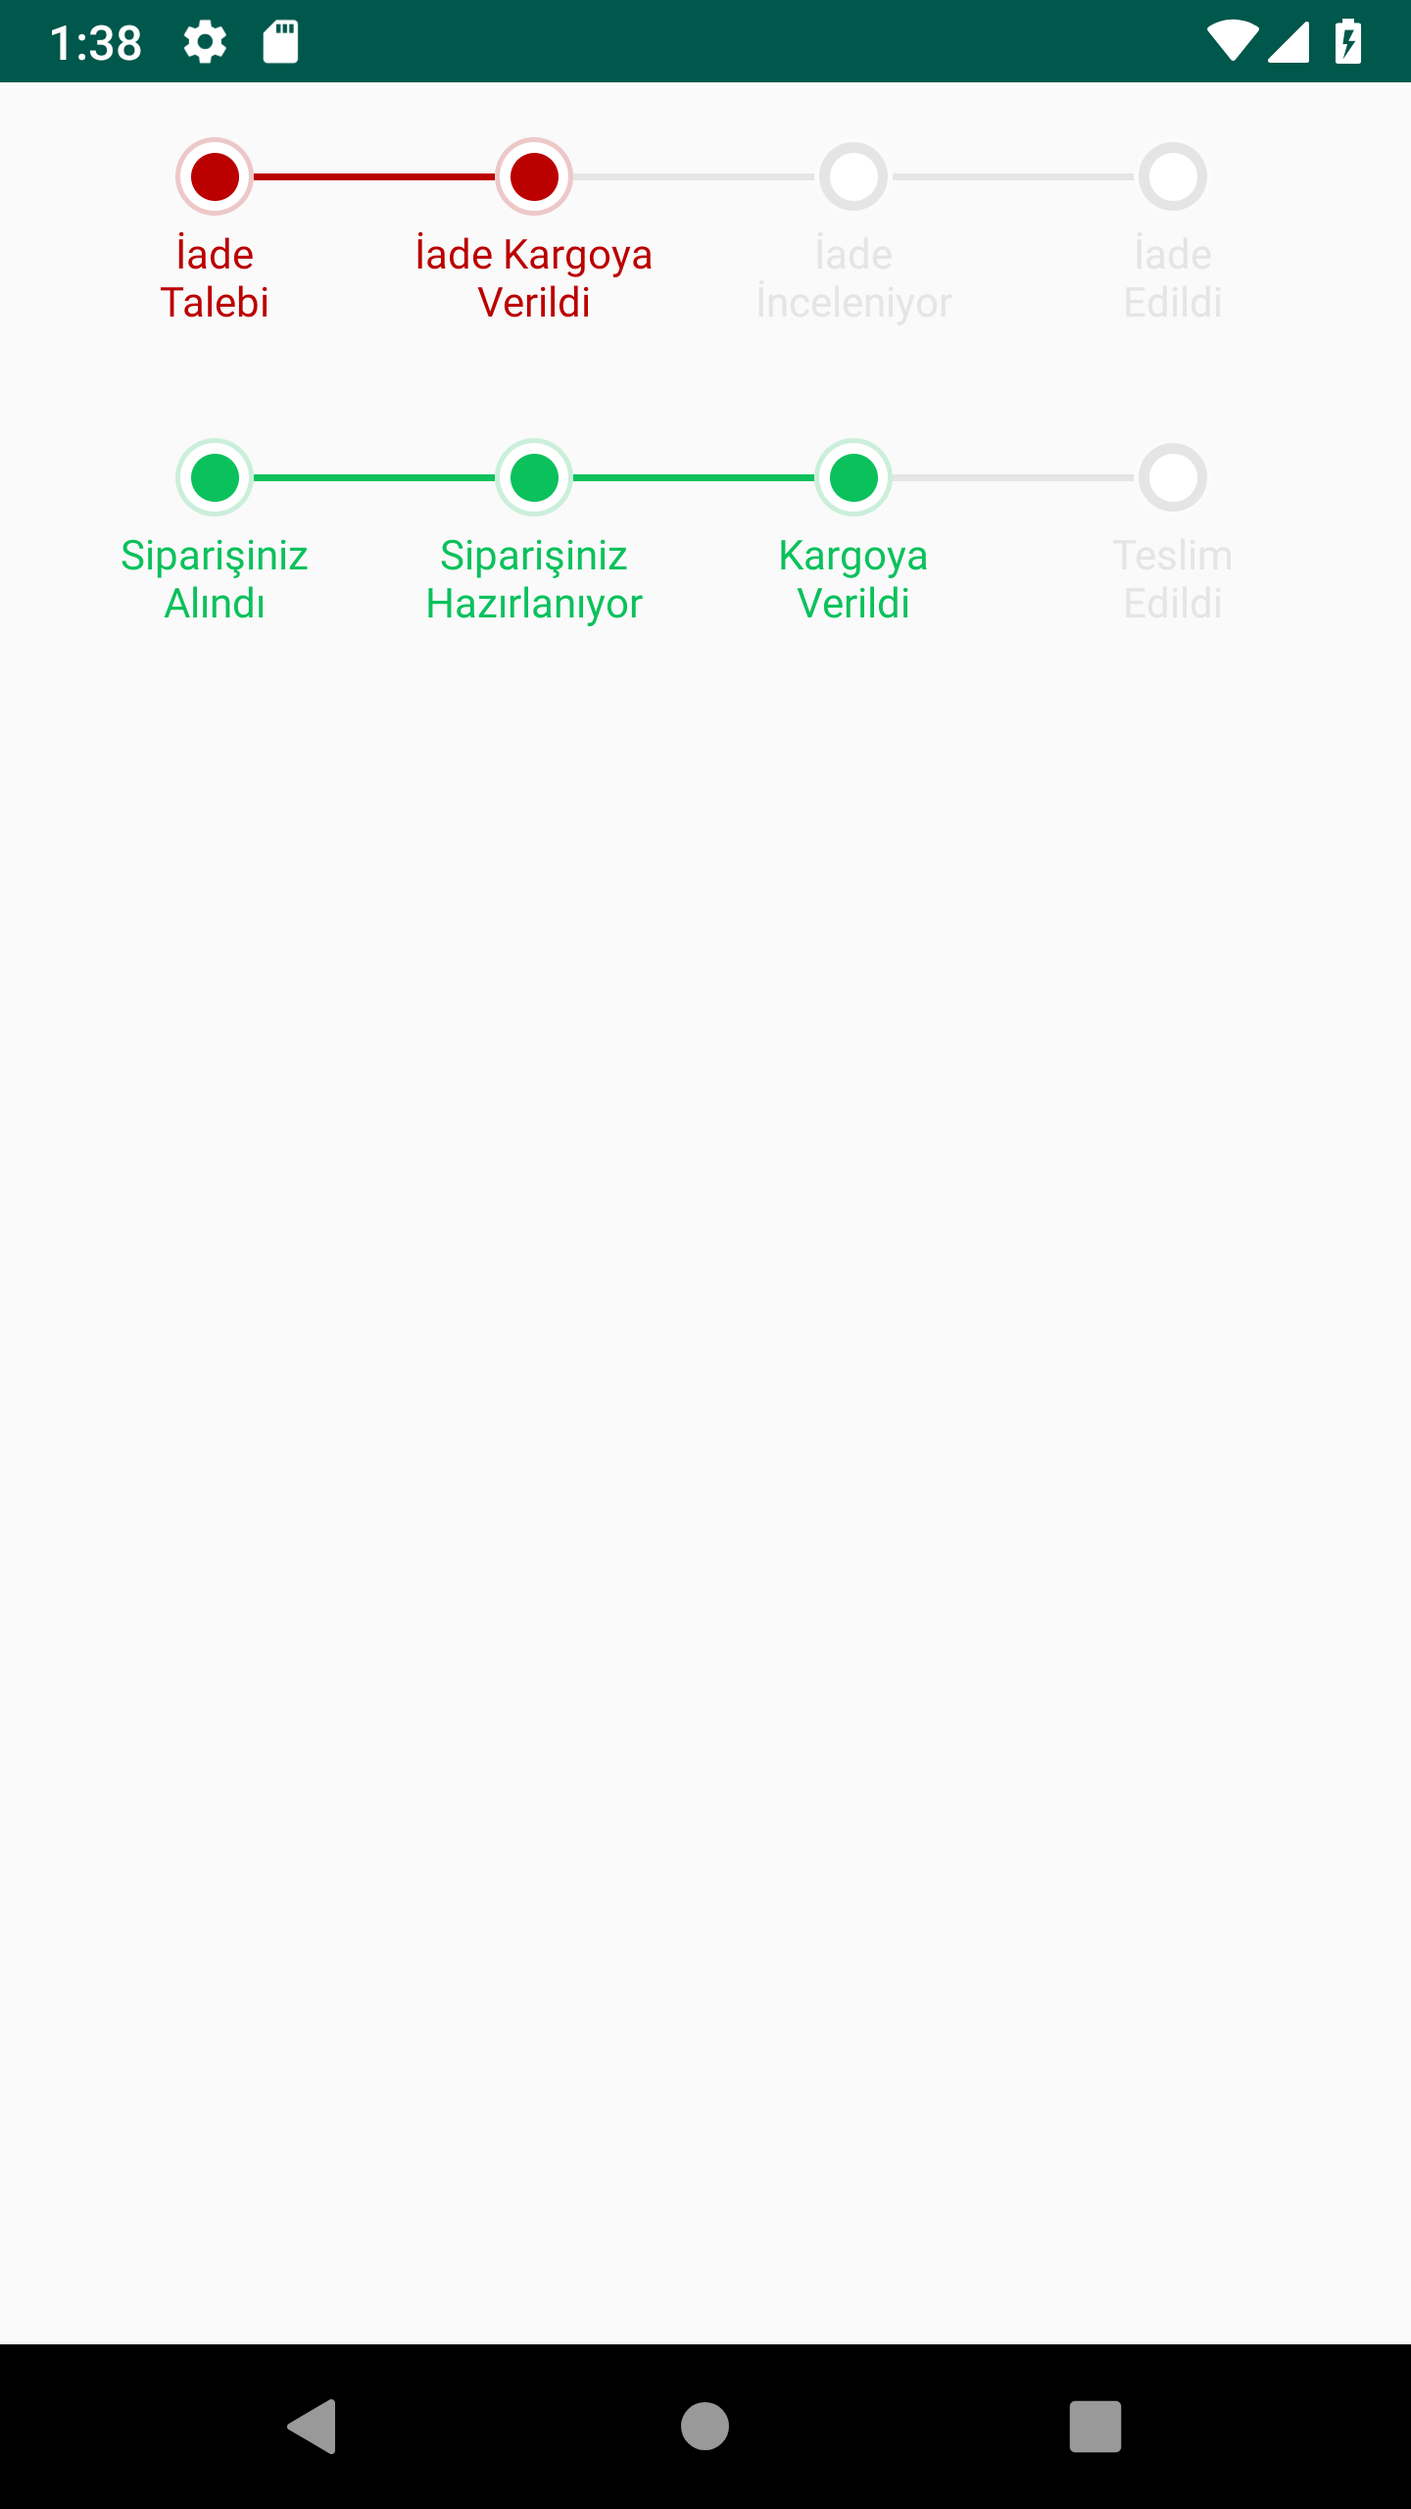
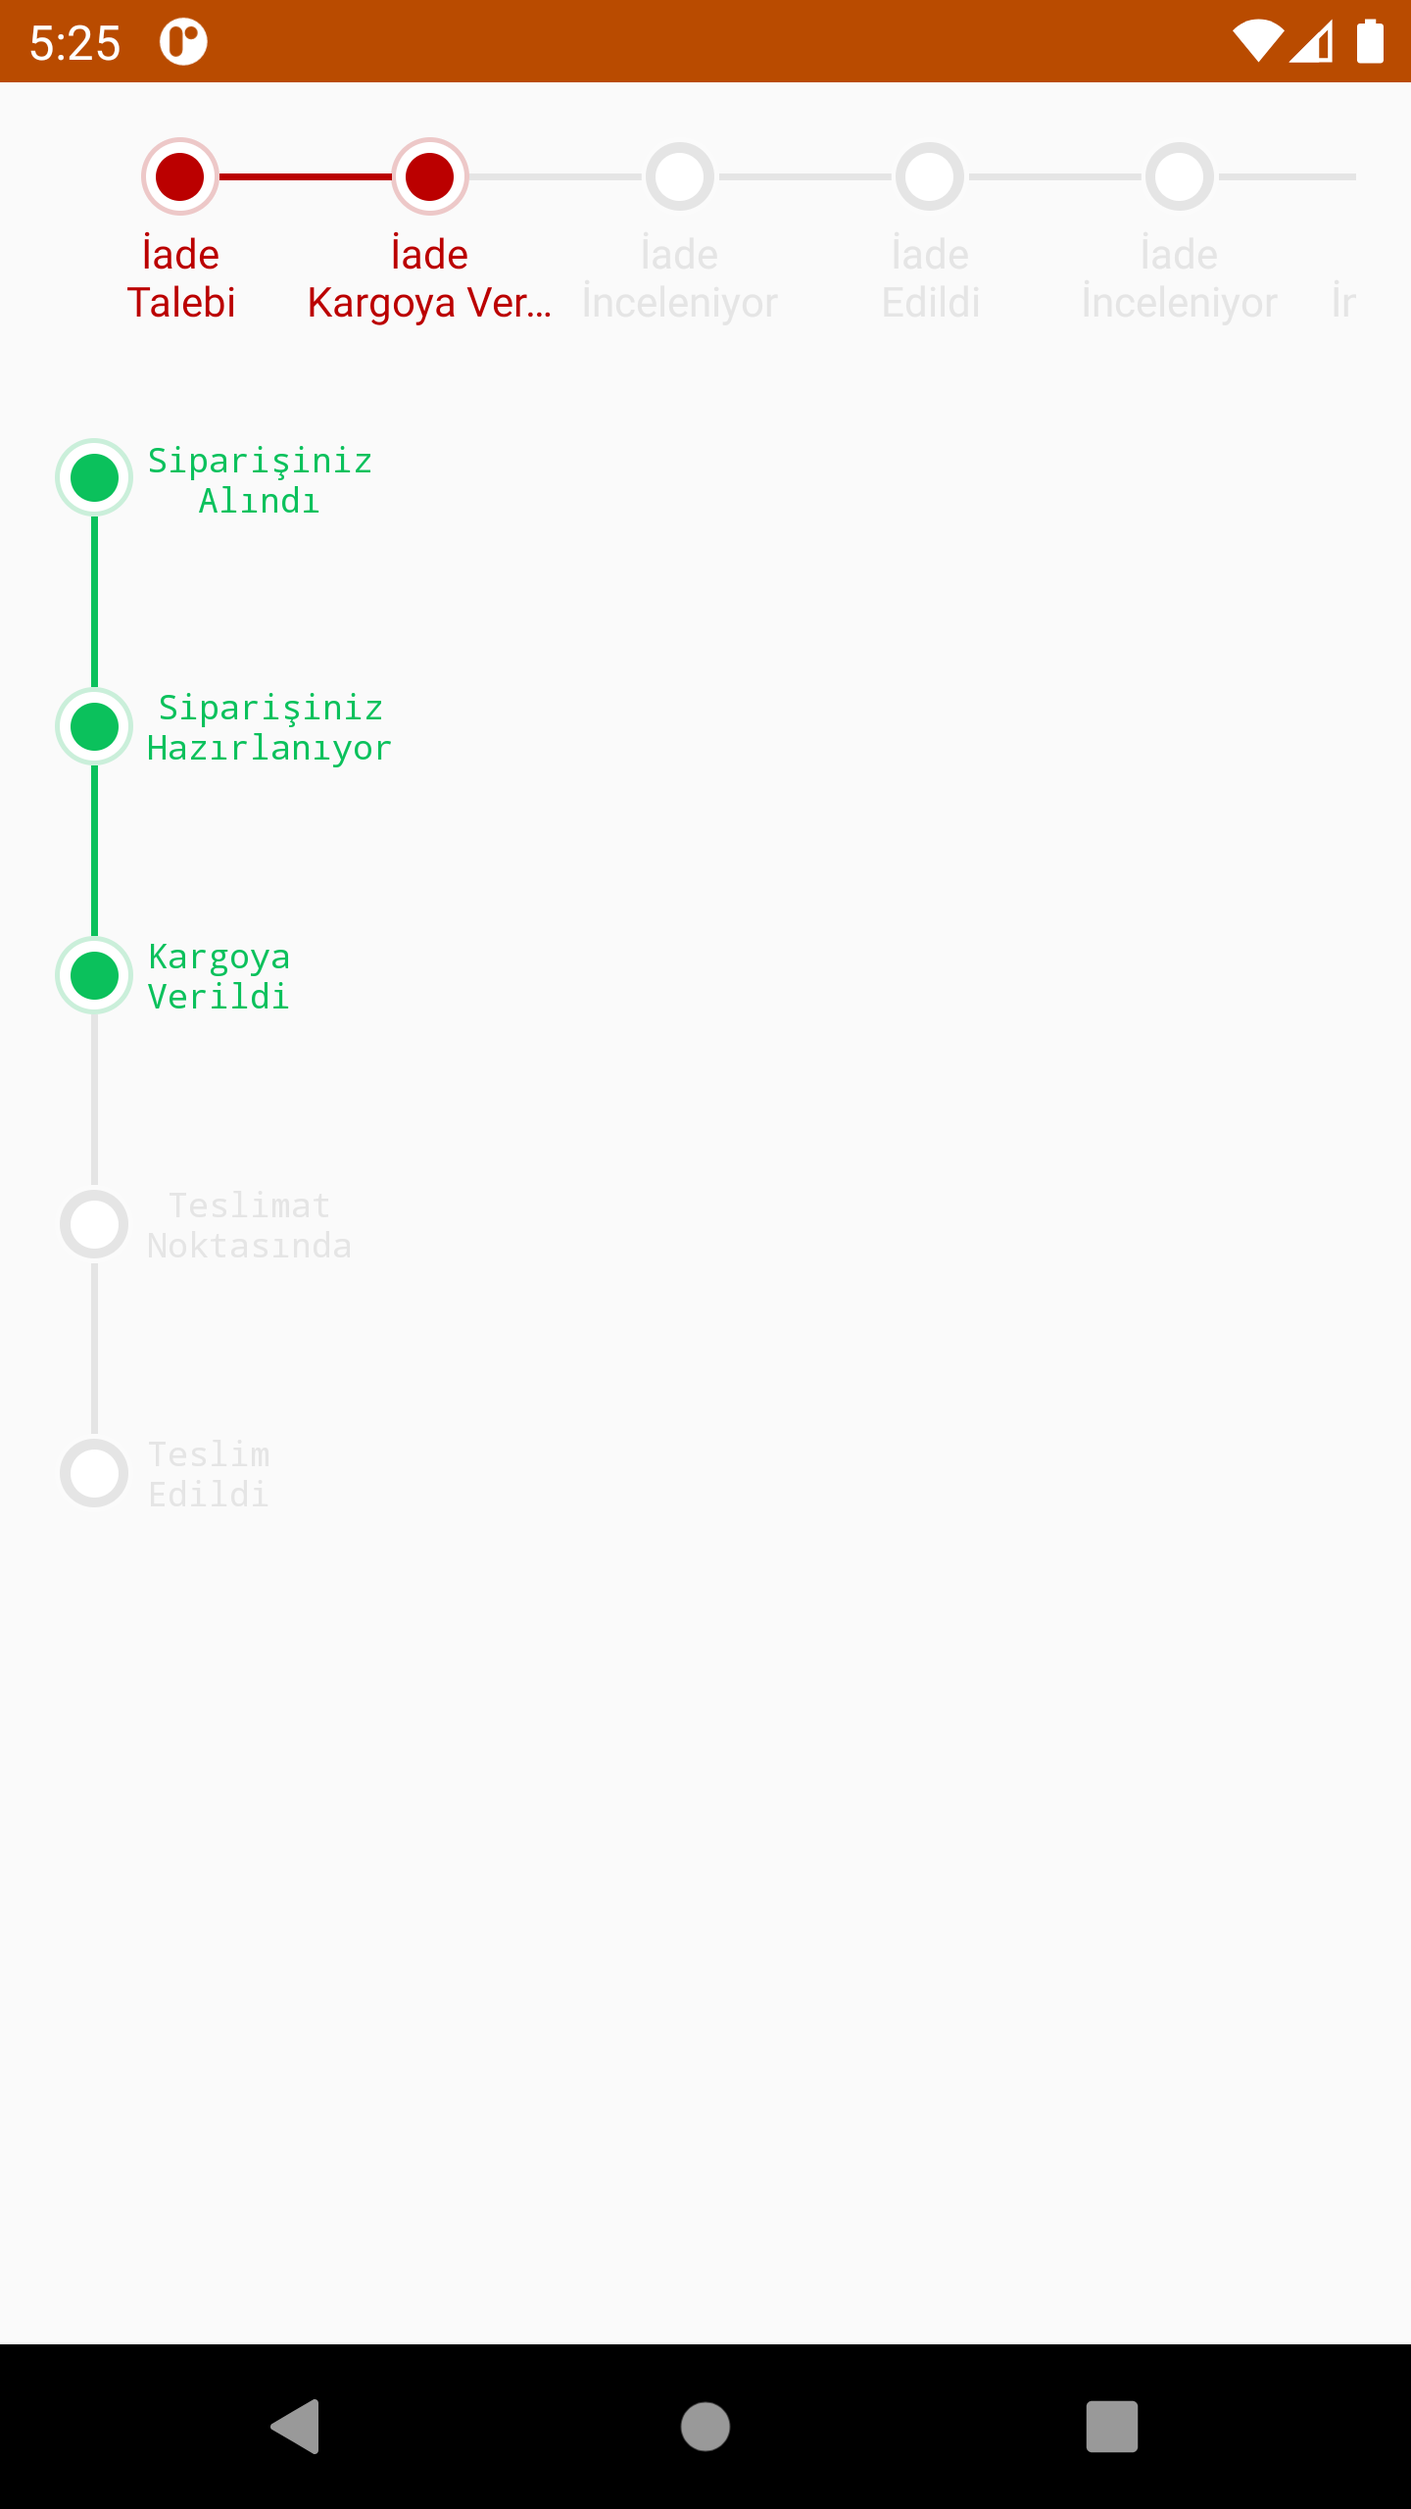
add vertical timeline view

diff --git a/sample/src/main/java/com/trendyol/uicomponents/TimelineViewActivity.kt b/sample/src/main/java/com/trendyol/uicomponents/TimelineViewActivity.kt
@@ -29,7 +29,7 @@ class TimelineViewActivity : AppCompatActivity() {
             insideColor = colorRed,
             text = "İade Talebi",
             textColor = colorRed,
-            rightLineColor = colorRed
+            endLineColor = colorRed
         )
 
         //active
@@ -38,8 +38,8 @@ class TimelineViewActivity : AppCompatActivity() {
             insideColor = colorRed,
             text = "İade Kargoya Verildi",
             textColor = colorRed,
-            leftLineColor = colorRed,
-            rightLineColor = colorGray
+            startLineColor = colorRed,
+            endLineColor = colorGray
         )
 
         //passive
@@ -48,8 +48,8 @@ class TimelineViewActivity : AppCompatActivity() {
             insideColor = colorWhite,
             text = "İade İnceleniyor",
             textColor = colorGray,
-            leftLineColor = colorGray,
-            rightLineColor = colorGray
+            startLineColor = colorGray,
+            endLineColor = colorGray
         )
 
         //passive
@@ -58,7 +58,8 @@ class TimelineViewActivity : AppCompatActivity() {
             insideColor = colorWhite,
             text = "İade Edildi",
             textColor = colorGray,
-            leftLineColor = colorGray
+            startLineColor = colorGray,
+            endLineColor = colorGray
         )
 
         val item5 = TimelineItem(
@@ -66,8 +67,8 @@ class TimelineViewActivity : AppCompatActivity() {
             insideColor = colorWhite,
             text = "İade İnceleniyor",
             textColor = colorGray,
-            leftLineColor = colorGray,
-            rightLineColor = colorGray
+            startLineColor = colorGray,
+            endLineColor = colorGray
         )
 
         val item6 = TimelineItem(
@@ -75,8 +76,8 @@ class TimelineViewActivity : AppCompatActivity() {
             insideColor = colorWhite,
             text = "İade İnceleniyor",
             textColor = colorGray,
-            leftLineColor = colorGray,
-            rightLineColor = colorGray
+            startLineColor = colorGray,
+            endLineColor = colorGray
         )
 
         val item7 = TimelineItem(
@@ -84,7 +85,7 @@ class TimelineViewActivity : AppCompatActivity() {
             insideColor = colorWhite,
             text = "İade Edildi",
             textColor = colorGray,
-            leftLineColor = colorGray
+            startLineColor = colorGray
         )
         return listOf(item1, item2, item3, item4, item5, item6, item7)
     }
@@ -96,7 +97,7 @@ class TimelineViewActivity : AppCompatActivity() {
             insideColor = colorGreen,
             text = "Siparişiniz Alındı",
             textColor = colorGreen,
-            rightLineColor = colorGreen
+            endLineColor = colorGreen
         )
 
         //active
@@ -105,8 +106,8 @@ class TimelineViewActivity : AppCompatActivity() {
             insideColor = colorGreen,
             text = "Siparişiniz Hazırlanıyor",
             textColor = colorGreen,
-            leftLineColor = colorGreen,
-            rightLineColor = colorGreen
+            startLineColor = colorGreen,
+            endLineColor = colorGreen
         )
 
         //passive
@@ -115,8 +116,8 @@ class TimelineViewActivity : AppCompatActivity() {
             insideColor = colorGreen,
             text = "Kargoya Verildi",
             textColor = colorGreen,
-            leftLineColor = colorGreen,
-            rightLineColor = colorGray
+            startLineColor = colorGreen,
+            endLineColor = colorGray
         )
 
         //passive
@@ -125,8 +126,8 @@ class TimelineViewActivity : AppCompatActivity() {
             insideColor = colorWhite,
             text = "Teslimat Noktasında",
             textColor = colorGray,
-            leftLineColor = colorGray,
-            rightLineColor = colorGray
+            startLineColor = colorGray,
+            endLineColor = colorGray
         )
 
         val item5 = TimelineItem(
@@ -134,7 +135,7 @@ class TimelineViewActivity : AppCompatActivity() {
             insideColor = colorWhite,
             text = "Teslim Edildi",
             textColor = colorGray,
-            leftLineColor = colorGray
+            startLineColor = colorGray
         )
         return listOf(item1, item2, item3, item4, item5)
     }

diff --git a/libraries/timeline-view/src/main/java/com/trendyol/timelineview/TimelineItemAdapter.kt b/libraries/timeline-view/src/main/java/com/trendyol/timelineview/TimelineItemAdapter.kt
@@ -4,11 +4,19 @@ import android.view.LayoutInflater
 import android.view.ViewGroup
 import androidx.databinding.DataBindingUtil
 import androidx.recyclerview.widget.RecyclerView
+import com.trendyol.timelineview.TimelineOrientation.HORIZONTAL
+import com.trendyol.timelineview.TimelineOrientation.VERTICAL
 import com.trendyol.timelineview.databinding.ItemTimelineBinding
+import com.trendyol.timelineview.databinding.ItemTimelineVerticalBinding
 
-class TimelineItemAdapter : RecyclerView.Adapter<TimelineItemAdapter.TimelineViewHolder>() {
+class TimelineItemAdapter(var timelineOrientation: TimelineOrientation = HORIZONTAL) :
+    RecyclerView.Adapter<RecyclerView.ViewHolder>() {
 
     private var timelineItems: MutableList<TimelineItemViewState> = mutableListOf()
+
+    private val HORIZONTAL_VIEW_TYPE_ID = 1
+
+    private val VERTICAL_VIEW_TYPE_ID = 2
 
     @JvmOverloads
     fun submitList(list: List<TimelineItemViewState> = emptyList()) {
@@ -17,23 +25,54 @@ class TimelineItemAdapter : RecyclerView.Adapter<TimelineItemAdapter.TimelineVie
         notifyDataSetChanged()
     }
 
-    override fun onCreateViewHolder(parent: ViewGroup, viewType: Int): TimelineViewHolder {
-        val binding = DataBindingUtil.inflate<ItemTimelineBinding>(
-            LayoutInflater.from(parent.context),
-            R.layout.item_timeline,
-            parent,
-            false
-        )
-        return TimelineViewHolder(binding)
+    override fun getItemViewType(position: Int): Int {
+        return when (timelineOrientation) {
+            HORIZONTAL -> HORIZONTAL_VIEW_TYPE_ID
+            VERTICAL -> VERTICAL_VIEW_TYPE_ID
+        }
+    }
+
+    override fun onCreateViewHolder(parent: ViewGroup, viewType: Int): RecyclerView.ViewHolder {
+        return if (viewType == VERTICAL_VIEW_TYPE_ID) {
+            val binding = DataBindingUtil.inflate<ItemTimelineVerticalBinding>(
+                LayoutInflater.from(parent.context),
+                R.layout.item_timeline_vertical,
+                parent,
+                false
+            )
+            VerticalTimelineViewHolder(binding)
+        } else {
+            val binding = DataBindingUtil.inflate<ItemTimelineBinding>(
+                LayoutInflater.from(parent.context),
+                R.layout.item_timeline,
+                parent,
+                false
+            )
+            HorizontalTimelineViewHolder(binding)
+        }
+
     }
 
     override fun getItemCount(): Int = timelineItems.size
 
-    override fun onBindViewHolder(holder: TimelineViewHolder, position: Int) {
-        holder.bind(timelineItems[position])
+    override fun onBindViewHolder(holder: RecyclerView.ViewHolder, position: Int) {
+        if (timelineOrientation == VERTICAL) {
+            (holder as VerticalTimelineViewHolder).bind(timelineItems[position])
+        } else {
+            (holder as HorizontalTimelineViewHolder).bind(timelineItems[position])
+        }
     }
 
-    inner class TimelineViewHolder(private val binding: ItemTimelineBinding) :
+    inner class HorizontalTimelineViewHolder(private val binding: ItemTimelineBinding) :
+        RecyclerView.ViewHolder(binding.root) {
+
+        fun bind(itemViewState: TimelineItemViewState) {
+            binding.itemViewState = itemViewState
+            binding.executePendingBindings()
+        }
+    }
+
+    inner class VerticalTimelineViewHolder(private val binding: ItemTimelineVerticalBinding) :
         RecyclerView.ViewHolder(binding.root) {
 
         fun bind(itemViewState: TimelineItemViewState) {

diff --git a/libraries/timeline-view/src/main/java/com/trendyol/timelineview/TimelineView.kt b/libraries/timeline-view/src/main/java/com/trendyol/timelineview/TimelineView.kt
@@ -43,6 +43,8 @@ class TimelineView : ConstraintLayout {
 
     private val binding: ViewTimelineBinding = inflate(R.layout.view_timeline)
 
+    private var timelineOrientation: TimelineOrientation = TimelineOrientation.HORIZONTAL
+
     private val timelineItemAdapter by lazy(LazyThreadSafetyMode.NONE) {
         TimelineItemAdapter()
     }
@@ -83,6 +85,12 @@ class TimelineView : ConstraintLayout {
                 typedArray.getString(
                     R.styleable.TimelineView_android_fontFamily
                 ) ?: context.resources.getString(R.string.tlv_default_font)
+            timelineOrientation =
+                if (typedArray.getInt(R.styleable.TimelineView_tlv_orientation, 0) == 0) {
+                    TimelineOrientation.HORIZONTAL
+                } else {
+                    TimelineOrientation.VERTICAL
+                }
         }
     }
 
@@ -107,8 +115,13 @@ class TimelineView : ConstraintLayout {
         this.fontFamily = fontFamily ?: context.resources.getString(R.string.tlv_default_font)
     }
 
+    fun setOrientation(timelineOrientation: TimelineOrientation) {
+        this.timelineOrientation = timelineOrientation
+    }
+
     fun setItems(items: List<TimelineItem>?) {
         binding.viewState = TimelineViewState(
+            timelineOrientation = timelineOrientation,
             timelineItems = mapTimelineItemsToTimelineItemViewState(items)
         )
         binding.executePendingBindings()

diff --git a/libraries/timeline-view/src/main/java/com/trendyol/timelineview/TimelineItemViewState.kt b/libraries/timeline-view/src/main/java/com/trendyol/timelineview/TimelineItemViewState.kt
@@ -1,6 +1,5 @@
 package com.trendyol.timelineview
 
-import android.content.Context
 import android.graphics.Color
 import android.view.View
 
@@ -22,15 +21,15 @@ class TimelineItemViewState(
 
     fun getTextColor(): Int = Color.parseColor(timelineItem.textColor)
 
-    fun getLeftLineColor(): Int = Color.parseColor(timelineItem.leftLineColor ?: hexColorWhite)
+    fun getLeftLineColor(): Int = Color.parseColor(timelineItem.startLineColor ?: hexColorWhite)
 
-    fun getRightLineColor(): Int = Color.parseColor(timelineItem.rightLineColor ?: hexColorWhite)
+    fun getRightLineColor(): Int = Color.parseColor(timelineItem.endLineColor ?: hexColorWhite)
 
     fun getLeftLineVisibility(): Int =
-        if (timelineItem.leftLineColor != null) View.VISIBLE else View.GONE
+        if (timelineItem.startLineColor != null) View.VISIBLE else View.GONE
 
     fun getRightLineVisibility(): Int =
-        if (timelineItem.rightLineColor != null) View.VISIBLE else View.GONE
+        if (timelineItem.endLineColor != null) View.VISIBLE else View.GONE
 
     fun getOutsideDotSize(): Float = dotSize
 

diff --git a/libraries/timeline-view/src/main/java/com/trendyol/timelineview/BindingAdapters.kt b/libraries/timeline-view/src/main/java/com/trendyol/timelineview/BindingAdapters.kt
@@ -4,11 +4,21 @@ import android.graphics.Typeface
 import android.view.View
 import android.widget.TextView
 import androidx.databinding.BindingAdapter
+import androidx.recyclerview.widget.LinearLayoutManager
 import androidx.recyclerview.widget.RecyclerView
 
 @BindingAdapter("timelineItems")
 internal fun RecyclerView.submitList(items: List<TimelineItemViewState>?) {
     (adapter as? TimelineItemAdapter)?.submitList(items.orEmpty())
+}
+
+@BindingAdapter("timelineOrientation")
+internal fun RecyclerView.timelineOrientation(timelineOrientation: TimelineOrientation) {
+    (adapter as? TimelineItemAdapter)?.apply {
+        (layoutManager as? LinearLayoutManager)?.orientation =
+            if (timelineOrientation == TimelineOrientation.VERTICAL) RecyclerView.VERTICAL else RecyclerView.HORIZONTAL
+        this.timelineOrientation = timelineOrientation
+    }
 }
 
 @BindingAdapter("tlv:layout_height")

diff --git a/libraries/timeline-view/src/main/java/com/trendyol/timelineview/TimelineItem.kt b/libraries/timeline-view/src/main/java/com/trendyol/timelineview/TimelineItem.kt
@@ -5,6 +5,6 @@ data class TimelineItem(
     val insideColor: String,
     val text: String,
     val textColor: String,
-    val leftLineColor: String? = null,
-    val rightLineColor: String? = null
+    val startLineColor: String? = null,
+    val endLineColor: String? = null
 )

diff --git a/libraries/timeline-view/src/main/java/com/trendyol/timelineview/TimelineViewState.kt b/libraries/timeline-view/src/main/java/com/trendyol/timelineview/TimelineViewState.kt
@@ -1,5 +1,6 @@
 package com.trendyol.timelineview
 
 data class TimelineViewState(
-    val timelineItems: List<TimelineItemViewState>
+    val timelineItems: List<TimelineItemViewState>,
+    val timelineOrientation: TimelineOrientation
 )

diff --git a/libraries/timeline-view/src/main/java/com/trendyol/timelineview/TimelineOrientation.kt b/libraries/timeline-view/src/main/java/com/trendyol/timelineview/TimelineOrientation.kt
@@ -1,0 +1,5 @@
+package com.trendyol.timelineview
+
+enum class TimelineOrientation {
+    HORIZONTAL,VERTICAL
+}
